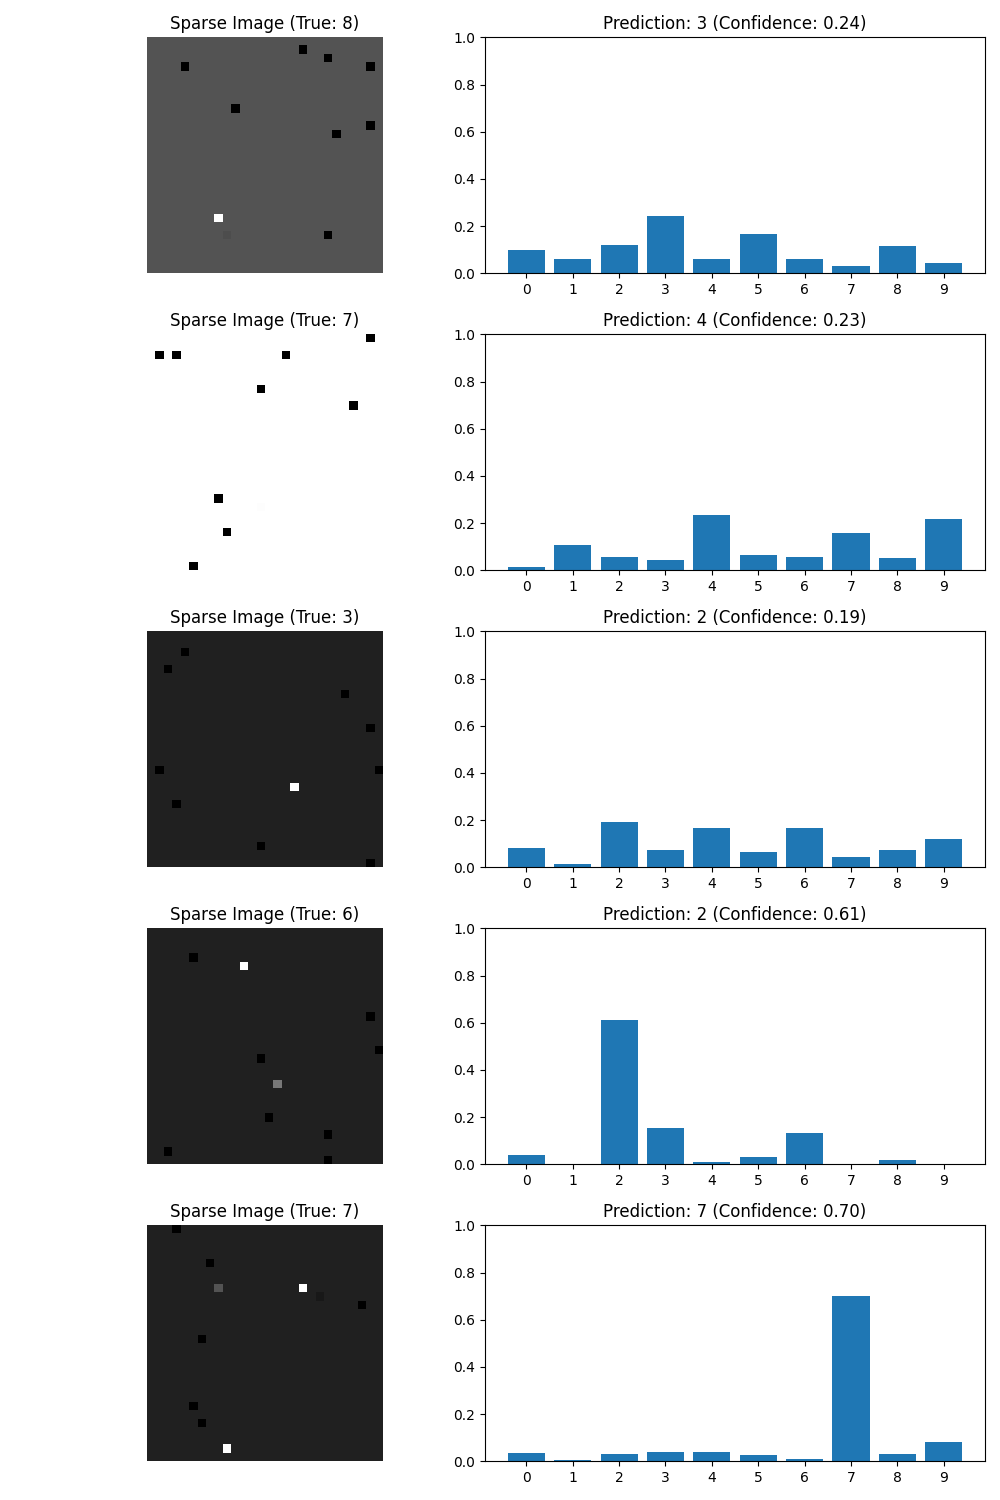
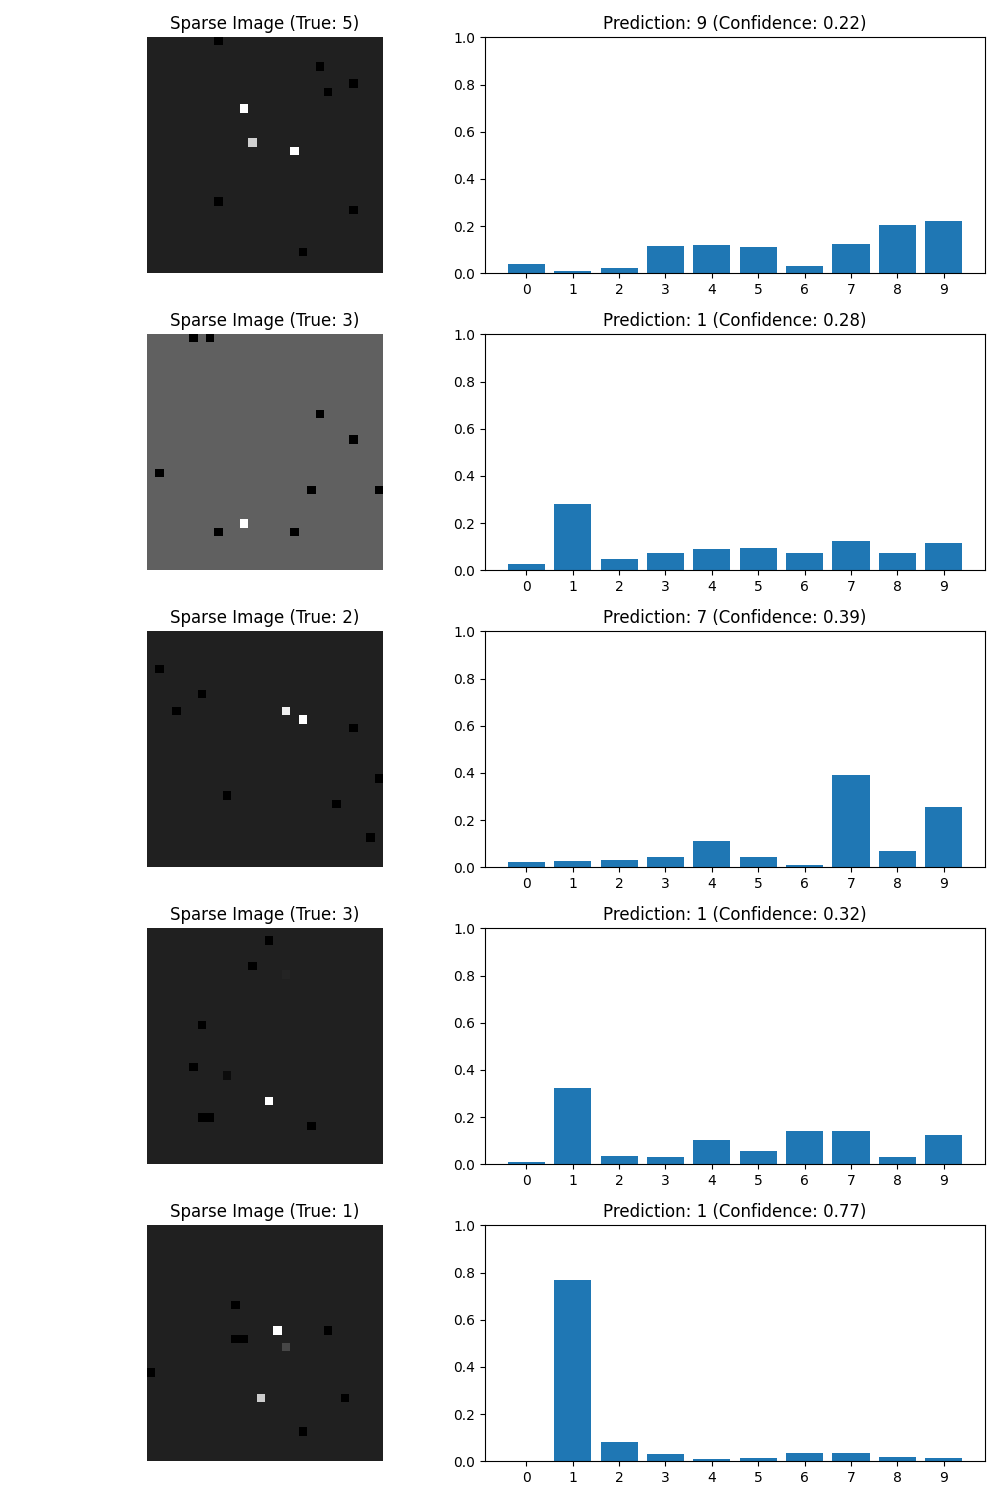
reorganise folder structure

diff --git a/experiments/evaluate_debate.py b/experiments/evaluate_debate.py
@@ -1,11 +1,11 @@
 import numpy as np
 import os
 from tqdm import tqdm
-from data_utils import get_mnist_test_dataset
-from visualize_debate import visualize_debate_sequence
+from judge.data_utils import get_mnist_test_dataset
+from single_game.visualize_debate import visualize_debate_sequence
 import random
 # Import here to avoid circular imports
-from debate_agents import MNISTDebateGame, Player
+from single_game.debate_agents import MNISTDebateGame, Player
 
 def simulate_debate(judge_model, image, true_label, total_pixels=None, num_simulations=100, 
                    temperature=0.5, verbose=True, sampling_mode='random', precommit=False, visualize=False,

diff --git a/experiments/run_debate.py b/experiments/run_debate.py
@@ -1,15 +1,15 @@
-import torch
+import argparse
 import numpy as np
+import torch
 import random
 import json
 import os
-import argparse
-from judge_model import JudgeModel
 import matplotlib
 # Use non-interactive backend if running without display
 if os.environ.get('DISPLAY', '') == '':
     matplotlib.use('Agg')
-from data_utils import get_mnist_test_dataset
+from judge.judge_model import JudgeModel
+from judge.data_utils import get_mnist_test_dataset
 from evaluate_debate import evaluate_debate_performance
 
 def main():

diff --git a/single_game/debate_agents.py b/single_game/debate_agents.py
@@ -2,8 +2,8 @@ import torch
 import numpy as np
 import random
 import os
-from judge_model import create_sparse_image
-from data_utils import get_sparse_image
+from judge.judge_model import create_sparse_image
+from judge.data_utils import get_sparse_image
 import matplotlib
 # Use non-interactive backend if running without display
 if os.environ.get('DISPLAY', '') == '':

diff --git a/experiments/run_experiments.py b/experiments/run_experiments.py
@@ -6,8 +6,8 @@ import os
 import argparse
 from datetime import datetime
 from tqdm import tqdm
-from judge_model import JudgeModel
-from data_utils import get_mnist_test_dataset
+from judge.judge_model import JudgeModel
+from judge.data_utils import get_mnist_test_dataset
 from evaluate_debate import simulate_debate
 import itertools
 

diff --git a/single_game/visualize_debate.py b/single_game/visualize_debate.py
@@ -3,7 +3,7 @@ import matplotlib.pyplot as plt
 import os
 import json
 from matplotlib.patches import Patch
-from judge_model import create_sparse_image
+from judge.judge_model import create_sparse_image
 
 def visualize_debate_sequence(result, judge_model=None, save_path=None, show=True):
     """
